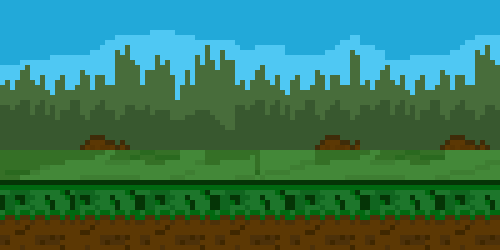
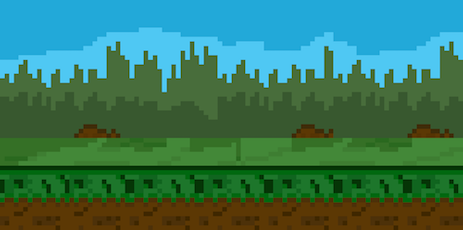
pigs jumping on ground

diff --git a/DiamondRush/core/src/com/missionbit/game/states/PlayState.java b/DiamondRush/core/src/com/missionbit/game/states/PlayState.java
@@ -3,6 +3,7 @@ package com.missionbit.game.states;
 import com.badlogic.gdx.Gdx;
 import com.badlogic.gdx.graphics.Texture;
 import com.badlogic.gdx.graphics.g2d.SpriteBatch;
+import com.badlogic.gdx.math.Vector2;
 import com.missionbit.game.DiamondRush;
 import com.missionbit.game.sprites.Pig;
 
@@ -19,7 +20,7 @@ public class PlayState extends State{
     public PlayState(GameStateManager gsm) {
         super(gsm);
         cam.setToOrtho(false, DiamondRush.WIDTH / 2, DiamondRush.HEIGHT / 2);
-        bg = new Texture("newmenu2.png");
+        bg = new Texture("newmenu1.png");
         carrot = new Texture("carrot.png");
         pig = new Pig(50,50);
     }
@@ -41,9 +42,10 @@ public class PlayState extends State{
     public void render(SpriteBatch sb) {
         sb.setProjectionMatrix(cam.combined);
         sb.begin();
-        sb.draw(bg,(cam.position.x - cam.viewportWidth / 2), 0);
+        sb.draw(bg, 0, 0);
+        sb.draw(bg, cam.position.x - (cam.viewportWidth / 2), 0);
         sb.draw(pig.getTexture(), pig.getPosition().x, pig.getPosition().y);
-        sb.draw(carrot, 50, 50, 25, 25);
+        sb.draw(carrot, 50, 0, 25, 25);
         sb.end();
     }
 

diff --git a/DiamondRush/core/src/com/missionbit/game/sprites/Pig.java b/DiamondRush/core/src/com/missionbit/game/sprites/Pig.java
@@ -12,6 +12,7 @@ public class Pig {
     private Vector3 velocity;
     private Texture pig;
     private static final int GRAVITY = -15;
+    private static final int GROUND = 63;
 
     public Pig(int x, int y){
         position = new Vector3(x, y, 0);
@@ -20,13 +21,13 @@ public class Pig {
     }
 
     public void update(float dt){
-        if(position.y > 0){
+        if(position.y > GROUND){
             velocity.add(0, GRAVITY, 0);
         }
         velocity.scl(dt);
         position.add(0, velocity.y, 0);
-        if(position.y < 0){
-            position.y = 0;
+        if(position.y < GROUND){
+            position.y = GROUND;
         }
         velocity.scl(1 / dt);
     }
@@ -40,8 +41,8 @@ public class Pig {
     }
 
     public void jump(){
-        if(position.y == 0){
-            velocity.y = 500;
+        if(position.y == GROUND){
+            velocity.y = 350;
         }
     }
 }
